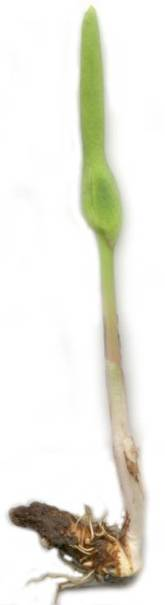
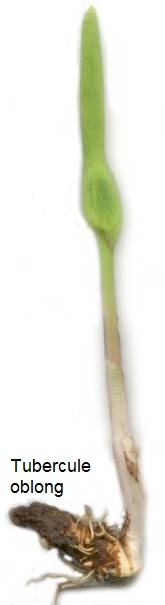
Corrections

Changed region(s): [[0.0606, 0.7438, 0.5455, 0.8331]]

diff --git a/flsv/vert/arum_maculatum.htm b/flsv/vert/arum_maculatum.htm
@@ -18,7 +18,7 @@
     <meta http-equiv="Content-script-type" content="text/javascript" />
     <meta http-equiv="Content-style-type" content="text/css" />
     <meta http-equiv="Content-language" content="fr" />
-    <meta name="keywords" content="Arum maculatum L., gouet macul&#233;, gouet tachet&#233;, chandelle , araceae, arac&#233;es, fleurs vertes" />
+    <meta name="keywords" content="Arum maculatum L., gouet macul&#233;, gouet tachet&#233;, chandelle , araceae, arac&#233;es, fleurs vertes, spadice, mouches Psychoda, plante &#224; tubercule, ordre des Alismatales, clades des Liliopsida (Monocots), Mesangiospermae, classe des Magnoliopsida" />
     <meta name="robots" content="all" />
     <meta name="robots" content="index, follow" />
     <meta name="robots" content="noarchive" />
@@ -98,7 +98,7 @@
                 <tr><td><a href="#ojo"><img src="../../imag10/attention.gif" width="36" height="32" align="top" title="Attention !" /></a></td></tr>
                 <tr><td><em>ARUM maculatum</em> L.<br />Gouet maculé, gouet tacheté, chandelle<h4>Dans l'Yonne</h4>
                             <ul>
-                                <li>Très commun.</li>
+                                <li>Plante <a href="../Lex/Lexi1_0.htm#geophyte">géophyte</a> très commune.</li>
                                 <li>Mode de vie : vivace.</li>
                                 <li>Période de floraison approximative :<br />Avril-Mai.</li>
                                 <li>Habitat : Haies, lisières des bois humides. C'est une plante d'ombre.</li>
@@ -109,10 +109,10 @@
                             
          <h4><a name="ojo"></a>Détails caractéristiques</h4>
              <ul>
-             <li style="color:#ff0000;"><a name="ojo"></a><img src="../../imag10/attention.gif" title="Attention !" /><br />Sa toxicité se révèle par ingestion ou par contact.</li><p><ul><li><font color="#ff0000"><strong>Toutes les parties d'<em>A. maculatum</em> sont toxiques</strong></font>, y compris ses <a href="#flle">feuilles</a>, dont les nervures sont ramifiées, contrairement aux feuilles des autres Monocotylédones qui ont plutôt des nervures parallèles.</li><li>C'est une plante qui contient aroine, arodine et aronine&#160;: des <strong>alcalo&#239;des</strong> peut-être moins dangereux que les <font color="#ff0000">cristaux insolubles d'<strong>oxalate de calcium</strong>, qui se trouvent dans toutes ses parties</font> et qui forment des raphides (faisceaux de fines aiguilles microscopiques).</li><li>Mais <a style="background-color:#fafce1;" href="https://www.xn--unregarddiffrentsurlanature-moc.com/2013/05/le-sanglier-et-les-arums-tachetes.html">les blaireaux et les sangliers</a> raffolent de ses rhizomes.<br />Les cochongliers et les sanglochons les apprécieraient-ils également&#160;?<br /><br /></li></ul></p>
-             <li>Ses rhizomes profondément enfouis.</li>
+             <li style="color:#ff0000;"><a name="ojo"></a><img src="../../imag10/attention.gif" title="Attention !" /><br />Sa toxicité se révèle par ingestion ou par contact.</li><p><ul><li><font color="#ff0000"><strong>Toutes les parties d'<em>A. maculatum</em> sont toxiques</strong></font>, y compris ses <a href="#flle">feuilles</a>, dont les nervures sont ramifiées, contrairement aux feuilles des autres Monocotylédones qui ont plutôt des nervures parallèles.</li><li>C'est une plante qui contient aroine, arodine et aronine&#160;: des <strong>alcalo&#239;des</strong> peut-être moins dangereux que les <font color="#ff0000">cristaux insolubles d'<strong>oxalate de calcium</strong>, qui se trouvent dans toutes ses parties</font> et qui forment des raphides (faisceaux de fines aiguilles microscopiques).</li><li>Mais <a style="background-color:#fafce1;" href="https://www.xn--unregarddiffrentsurlanature-moc.com/2013/05/le-sanglier-et-les-arums-tachetes.html">les blaireaux et les sangliers</a> raffolent de ses tubercules.<br />Les cochongliers et les sanglochons les apprécieraient-ils également&#160;?<br /><br /></li></ul></p>
+             <li>Ses tubercules sont oblongs.</li>
              <li>Les chloroplastes de ses feuilles présentent quelques particularités propres aux plantes d'ombre.</li>
-             <li>La massue dégage chaleur et odeur attirant des insectes qui glissent sur la pente lisse de la spathe jusqu'au fond d'une poche semblable &#224; une nasse o&#249; se trouve le nectar.</li>
+             <li>La massue dégage chaleur et odeur pour une pollinisation avec des insectes généralement attirés par les bouses ou la matière en décomposition qui glissent sur la pente lisse de la spathe jusqu'au fond d'une poche semblable à une nasse.</li>
          <li>Après dispersion du pollen, les fleurs stériles se déssèchent et la spathe fane&#160;: les insectes peuvent s'échapper, comme par exemple la Cétoine dorée (<em>Cetonia aurata</em>) visible avec d'autres <strong>Coléoptères</strong> attirés par ces fleurs, mais les pollinisatrices habituelles de ce gouet maculé sont <em><a style="background-color:#fafce1;" href="http://www.forestryimages.org/browse/subthumb.cfm?sub=57025">Psychoda phalaenoides</a></em> et <em><a style="background-color:#fafce1;" href="http://ca.wikipedia.org/wiki/Psychoda_grisescens">Psychoda grisescens</a></em>, des mouches papillons... dupées par cet <a style="background-color:#fafce1;" href="http://www.svtauclairjj.fr/arum/synthese.htm"><em>Arum maculatum</em></a>.</li>
         </ul>
 
@@ -130,7 +130,7 @@
                      
                <table align="center"><tr><td height="57"><a href="../poaceae/Lipoac.htm"><img src="../../imag02/epillet.jpg" width="38" height="57" title="Poaceae / Gramineae" /></a></td><td>&#160;</td><td height="57"><a href="../acc/menusmart.htm#couleurs"><img src="../../imag10/couleurs_f.jpg" width="63" height="57" title="Fleurs classées par couleurs" /></a></td><td>&#160;</td><td height="57"><a title="plantes sans fleurs" href="../plssfl/famssgr.htm"><img src="../../imag10/aspp.jpg" width="40" height="14" /></a></td></tr></table>
 
-        <div id="pagebasflr">Mise à jour&#160;:&#160;mai 2026<br /><img src="../../imag10/copyleft.png" width="13" height="13" />&#160;2005 à 2026 -&#160;<a title="page d'accueil en ligne" href="https://fleursauvageyonne.github.io"><em>fleursauvageyonne</em></a></div>
+        <div id="pagebasflr">Mise à jour&#160;:&#160;juin 2026<br /><img src="../../imag10/copyleft.png" width="13" height="13" />&#160;2005 à 2026 -&#160;<a title="page d'accueil en ligne" href="https://fleursauvageyonne.github.io"><em>fleursauvageyonne</em></a></div>
                              </div>
                          </div>
                      </div>

diff --git a/flsv/jaune/jacobaea_vulgaris.htm b/flsv/jaune/jacobaea_vulgaris.htm
@@ -101,7 +101,7 @@
                     <tr>
                         <td colspan="2" align="justify">
            <ul><li style="color:#ff0000;"><a name="ojo"></a><img src="../../imag10/attention.gif" title="Attention !" /><br /> Dès les premiers stades de sa végétation,</li><p>ce séneçon présente (<a style="background-color:#fafce1;" href="https://equipedia.ifce.fr/elevage-et-entretien/alimentation/intoxication-alimentaire/les-senecons-plantes-toxiques">comme d'autres séneçons</a>) un risque pour les chevaux et les bovins en raison des alcaloïdes hépatotoxiques qu'il contient.<br />Si les intoxications sont rares au pâturage puisque ces animaux ne le consomment pas en vert, avec l'ensilage le danger augmente, car alors ils ne peuvent pas trier ce qu'ils ingèrent, d'autant plus qu'une fois coupé et séché, <em>Jacobaea vulgaris</em> conserve sa toxicité mais perd son goût et sa couleur.<br /><br /></p>
-            <li><em>Jacobaea vulgaris</em> était, sous son ancien nom de <em>Senecio jacobaea</em>, un des séneçons <em>entrés, plus ou moins, dans la médecine populaire [...] recommandé  comme vulnéraire, apérifit et résolutif</em>, selon <a href="../acc/biblio.htm#hariot">Paul Hariot</a>. Si elle pousse dans les cultures de <a href="../Lex/Lexi1_1.htm#ppam">PPAM</a>, elle est désormais considérée comme une adventices à AP (Alcaloïdes pyrrolizidiniques) <em>problématique</em>.</li></ul>                                            
+            <li><em>Jacobaea vulgaris</em> était, sous son ancien nom de <em>Senecio jacobaea</em>, un des séneçons <em>entrés, plus ou moins, dans la médecine populaire [...] recommandé  comme vulnéraire, apérifit et résolutif</em>, selon <a href="../acc/biblio.htm#hariot">Paul Hariot</a>. Si elle pousse dans les cultures de <a href="../Lex/Lexi1_1.htm#ppam">PPAM</a>, elle est désormais considérée comme une adventices à AP (<a style="background-color:#fafce1;" href="https://www.eurofins.fr/agroalimentaire/actualit%C3%A9s/actualit%C3%A9s/risque-biocontaminants-dans-les-%C3%A9pices-herbes-s%C3%A9ch%C3%A9es-th%C3%A9s-infusions-et-compl%C3%A9ments-alimentaires-%C3%A0-base-de-plantes-d%C3%A9tection-des-alcalo%C3%AFdes-pyrrolizidiniques/">alcaloïdes pyrrolizidiniques</a>) <em>problématique</em>.</li></ul>                                            
 
                         <h4>Nombre d'espèce icaunaise dans le genre</h4>
                             <ul>
@@ -109,14 +109,14 @@
                             </ul>
                         </td>
                     </tr>
-                </table>  
+                </table>
 
                  <div id="bandeauflsv">
     <p align="center">Autres <a href="../var/LFtoxiques1.htm">végétaux toxiques ou allergisants</a><br /><a href="../acc/menusmart.htm"><img src="../../imag10/111/clicmenu.jpg"></a></p>
 
                <table align="center"><tr><td height="57"><a href="../poaceae/Lipoac.htm"><img src="../../imag02/epillet.jpg" width="38" height="57" title="Poaceae / Gramineae" /></a></td><td>&#160;</td><td height="57"><a href="../acc/menusmart.htm#couleurs"><img src="../../imag10/couleurs_f.jpg" width="63" height="57" title="Fleurs classées par couleurs" /></a></td><td>&#160;</td><td height="57"><a title="plantes sans fleurs" href="../plssfl/famssgr.htm"><img src="../../imag10/aspp.jpg" width="40" height="14" /></a></td></tr></table> 
 
-        <div id="pagebasflr">Mise à jour&#160;:&#160;mars 2026<br /><img src="../../imag10/copyleft.png" width="13" height="13" />&#160;2005 à 2026 -&#160;<a title="page d'accueil en ligne" href="https://fleursauvageyonne.github.io"><em>fleursauvageyonne</em></a></div>
+        <div id="pagebasflr">Mise à jour&#160;:&#160;juin 2026<br /><img src="../../imag10/copyleft.png" width="13" height="13" />&#160;2005 à 2026 -&#160;<a title="page d'accueil en ligne" href="https://fleursauvageyonne.github.io"><em>fleursauvageyonne</em></a></div>
                                 </div>
                             </div>
                         </div>

diff --git a/flsv/jaune/solidago_virgaurea.htm b/flsv/jaune/solidago_virgaurea.htm
@@ -97,6 +97,7 @@
                             <ul><li>Leur pollinisation s'effectue grâce aux abeilles, bourdons, syrphes et papillons, ou par autofécondation. Les <a style="background-color:#fafce1;" href="https://www.paldat.org/pub/Solidago_virgaurea/304600">grains de pollen</a> sont de petite taille.</li>
                             <li>En Automne ses cypsèles, <a style="background-color:#fafce1;" href="http://flore-en-ligne.fr/Images/Solidago_verge_or/HR_Solidago_verge_or_achaines.jpg">à crochets</a> pour une éventuelle dispersion <a href="../Lex/Lexi6.htm#epizoo">épizoochore</a>, libèrent leurs graines surmontées d’une <a style="background-color:#fafce1;" href="https://upload.wikimedia.org/wikipedia/commons/c/cf/Solidago_virgaurea_frucht.jpeg">aigrette à soies nombreuses</a> pour leur dispersion <a href="../Lex/Lexi6.htm#anemoch">anémochore</a>.</li></ul>
                     <p align="center" style="font-size:small;"><img src="../../imag01/solidago_virgaurea2.jpg" width="270" height="611" title="Verge d'or" /><br />Senan, 13 novembre 2010</p>
+                    <ul><li>C'est une plante qui nourrit <a style="background-color:#fafce1;" href="https://www.lepinet.fr/especes/photos_grandes/ASTERIS-L5-20040811-1.jpg">les chenilles</a> de <a style="background-color:#fafce1;" href="https://www.lepinet.fr/especes/nation/lep/?e=&id=42000#">La Cucullie de l'Aster</a>, <em>Cucullia asteris</em> (<a style="background-color:#fafce1;" href="https://fr.wikipedia.org/wiki/Johann_Nepomuk_Cosmas_Michael_Denis">D.</a> & <a style="background-color:#fafce1;" href="https://fr.wikipedia.org/wiki/Ignaz_Schifferm%C3%BCller">S.</a>, 1775).</li></ul>
 
                             <h4>Nombre d'espèces icaunaises dans le genre</h4>
                             <ul>
@@ -111,7 +112,7 @@
 
                 <table align="center"><tr><td height="57"><a href="../poaceae/Lipoac.htm"><img src="../../imag02/epillet.jpg" width="38" height="57" title="Poaceae / Gramineae" /></a></td><td>&#160;</td><td height="57"><a href="../acc/menusmart.htm#couleurs"><img src="../../imag10/couleurs_f.jpg" width="63" height="57" title="Fleurs classées par couleurs" /></a></td><td>&#160;</td><td height="57"><a title="plantes sans fleurs" href="../plssfl/famssgr.htm"><img src="../../imag10/aspp.jpg" width="40" height="14" /></a></td></tr></table>
 
-           <div id="pagebasflr">Mise à jour&#160;:&#160;mars 2026<br /><img src="../../imag10/copyleft.png" width="13" height="13" />&#160;2005 à 2026 -&#160;<a title="page d'accueil en ligne" href="https://fleursauvageyonne.github.io"><em>fleursauvageyonne</em></a></div>
+           <div id="pagebasflr">Mise à jour&#160;:&#160;juin 2026<br /><img src="../../imag10/copyleft.png" width="13" height="13" />&#160;2005 à 2026 -&#160;<a title="page d'accueil en ligne" href="https://fleursauvageyonne.github.io"><em>fleursauvageyonne</em></a></div>
                                            </div>
                                        </div>
                                    </div>

diff --git a/flsv/Lex/Lexi1.htm b/flsv/Lex/Lexi1.htm
@@ -644,7 +644,7 @@
                         </tr>
                         <tr><th colspan="2">Chimie des végétaux</th></tr>
                         <tr>
-                            <td colspan="2">Les végétaux, véritables <a style="background-color:#fafce1;" href="https://www.canal-u.tv/video/universite_de_tous_les_savoirs/l_usine_chimique_vegetale.888">usines chimiques</a>, en fournissant aux Hommes leurs substances naturelles, leur ont également donné des concepts&#160;: ceux de la chimie moléculaire.<br />Voici quelques mots à comprendre<br /><font size="-1">(dont nous empruntons certaines définitions à <a href="../acc/biblio.htm#laszlo"><em>La chimie nouvelle</em></a> de <a style="background-color:#fafce1;" href="https://pierrelaszlo.com/science/science-science/le-pin-et-la-molecule/">P.&#160;Laszlo</a>)</font>&#160;:<ul>
+                            <td colspan="2">Les végétaux, véritables <a style="background-color:#fafce1;" href="https://www.canal-u.tv/video/universite_de_tous_les_savoirs/l_usine_chimique_vegetale.888">usines chimiques</a> sans <a style="background-color:#fafce1;" href="https://chimactiv.agroparistech.fr/fr/bases">tout le matériel</a> nécessaire aux Hommes à qui elles fournissent leurs substances naturelles, leur ont également donné des concepts&#160;: ceux de la chimie moléculaire.<br />Voici quelques mots à comprendre<br /><font size="-1">(dont nous empruntons certaines définitions à <a href="../acc/biblio.htm#laszlo"><em>La chimie nouvelle</em></a> de <a style="background-color:#fafce1;" href="https://pierrelaszlo.com/science/science-science/le-pin-et-la-molecule/">P.&#160;Laszlo</a>)</font>&#160;:<ul>
                                 <li><a style="background-color:#fafce1;" href="https://www.elementschimiques.fr/?fr/proprietes/generalites/famille">familles chimiques</a></li><li>molécule&#160;: module unitaire pour toute substance chimique, et donc assemblage d'atomes dans une géométrie bien définie qui, <a style="background-color:#fafce1;" href="https://leprincedulac.fr/index.php/phytochimie/"><em>en phytochimie, n’explique jamais toute la plante</em></a> comme le précise Le Prince du Lac.</li><li>molécules odorantes&#160;: émises par les fleurs, les fruits, mais aussi par les feuilles, les troncs et les branches, les racines… Elles peuvent être libérées par le biais&#160;:<ul><li>d’essences produites par des poils minuscules</li><li>de résines, solides ou semi-liquides, produites de façon spontanée ou en réaction à une blessure, insolubles dans l’eau et solubles dans l’alcool</li><li>de gommes, proches des résines mais solubles dans l’eau et insolubles dans l’alcool</li><li>de baumes, sirupeux et d'odeur suave, solubles dans l’alcool</li><li>d’huiles, liquides gras parfumés produits par des fruits et des graines de certains végétaux.</li></ul></li>
                                 <li><a href="../Lex/Lexi1_1.htm#pigment">pigment</a></li><li>peptide&#160;: miniprotéine.</li>
                                 <li>protéine&#160;: enchaînement d'acides aminés.</li><li><a href="../arbres/LArbres.htm#carbone">Carbone</a></li>